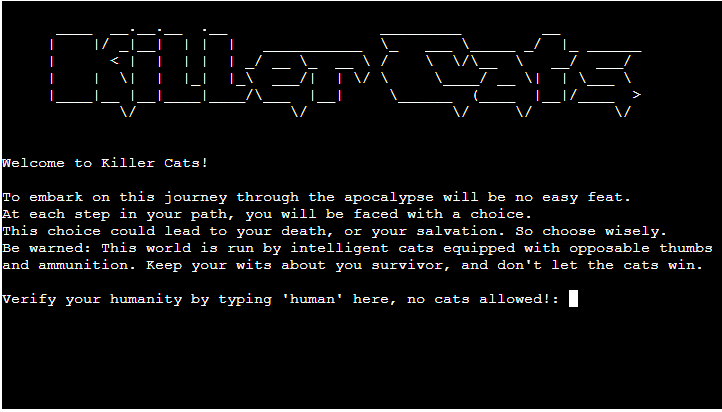
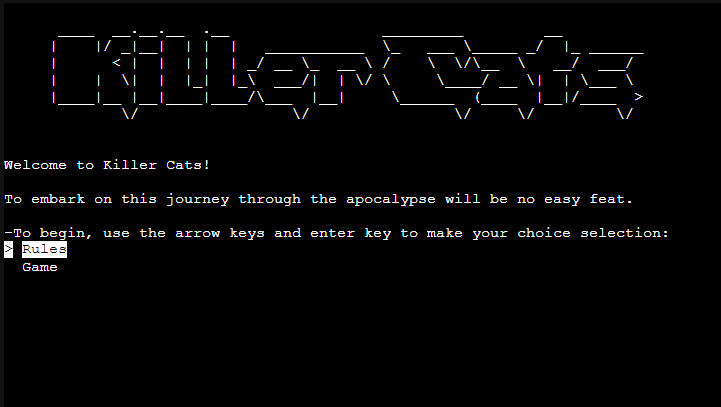
Update existing features with screenshots and text

diff --git a/README.md b/README.md
@@ -36,7 +36,7 @@ about how to play.
 
 - **Verification**
 
-    - At the end of the welcome screen, the user is prompted to verify their humanity. This is a fun feature, reinforcing the game narrative of "killer cats".
+    - At the end of the welcome screen, if the user selects `game`, they are prompted to verify their humanity. This is a fun feature, reinforcing the game narrative of "killer cats".
 
 ![screenshot](documentation/feature01.png)
 
@@ -48,20 +48,13 @@ about how to play.
 
 - **Path Options**
 
-    - Below the story, the user will have two choices. These are clearly labelled and the user is told what the expected input is in brackets, this reduces confusion for the user. There are two types of options in the game, numbers or text. (The text option looks only for the first letter the user types, to prevent typos from resulting in invalid data and frustrating the user.)
+    - Below the story, the user will have two choices. These are clearly labelled and the user can only use arrows and enter to make their selection, this reduces confusion for the user.
 
-![screenshot](documentation/feature03a.png)
-![screenshot](documentation/feature03b.png)
-
-- **Invalid Input**
-
-    - In the event the users input is invalid, they will be brought to a new screen where they are informed of the error, and prompted to input the correct information with a reminder of what the options are. This is useful to the user as it will help them get back on track with the game easily.
-
-![screenshot](documentation/feature04.png)
+![screenshot](documentation/feature03.png)
 
 - **Try Again**
 
-    - This feature will pop up once the user sees a death story screen. They will have chosen the incorrect path which has led them to their untimely death, and in this scenario the user will be able to try the game again. This is beneficial to the user as it will make it easy for them to restart the game.
+    - This feature will pop up once the user sees a death story screen. They will have chosen the incorrect path which has led them to their untimely death, and in this scenario the user will be able to try the game again. This is beneficial to the user as it will make it easy for them to restart the game without having to return to the welcome page every time.
 
 ![screenshot](documentation/feature05.png)
 
